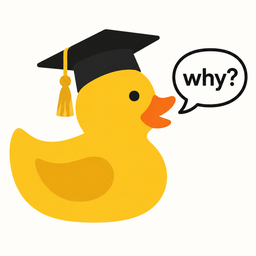
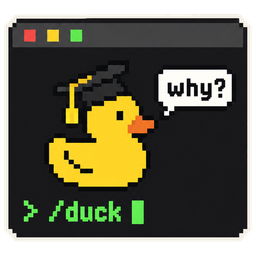
README after ponytail: GIF in the dsh web style, cropped tab screenshot
The README now follows the Doctor Duck README: tagline, a GIF drawn in
the DeepSeek Harness web chat style (an illustration, not a recording;
no DeepSeek logo, wordmark or model name), bold lines, then the 鸭子 tab.
The GIF follows the Doctor Duck copy pinned in duck/ (345d618): a flat
/duck menu with the pick-a-command line after it, then one message
/duck 可不可以告诉我这个内容里我要学什么？ routed to /duck-learn. Part
four says there is no decision log, as the duck was not on.

The tab screenshot is the real one, cropped to the tab pane, so the text
is readable and the DeepSeek Harness logo is gone. LICENSE and the README
say the interface in screenshots is not covered by our license; LICENSE
now also lists client/ (MIT) and mentor/ (CC BY-NC-SA 4.0).

Fact-check fixes: the sources line follows the pinned core.md (there is
no essay index at 345d618) and is worded as a rule; a 装好以后 section
with the restart note for 方式三 and Desktop and what /duck on does; the
web-search FAQ; the English link is labelled as an overview; DETAIL.md
says "not turned on" instead of "off"; verification lines updated for
the 10-26 rerun and the rename; the model-session red team caveat is back.

icon.png now uses the t05-bubble duck the user picked on 10-26.

Before going public: the name (the user's choice) starts with the
DeepSeek mark, and BRAND_GUIDELINES.zh.md:8-10 suggests DSH; the GIF
uses the dsh brand blue. duck/ is pinned at 345d618; after the stacked
[…]

diff --git a/README.md b/README.md
@@ -1,22 +1,80 @@
-# deepseek-supervisor
+<p align="center">
+  <picture>
+    <source media="(prefers-color-scheme: dark)" srcset="assets/logo-dark.png">
+    <img src="assets/logo.png" width="220" alt="戴博士帽的像素小黄鸭，在终端里问 why?">
+  </picture>
+</p>
 
-> Trust me, I'm a Ducktor.
+<h1 align="center">deepseek-supervisor</h1>
 
-Doctor Duck（讲为什么的科研导师）的 DeepSeek Harness 原生插件。装上以后，在 DeepSeek Harness 的 Web、Desktop 和命令行里都能敲 `/duck-review` 这类命令；在开启了鸭子的项目里，每个会话都带着 Doctor Duck 的常驻规则。规则、命令和卡片是 Doctor Duck 的原文，和 Claude Code、Codex 用户拿到的是同一份。
+<p align="center">
+  <em>AI 做研究。鸭子讲为什么。道理你带走。</em>
+</p>
 
-在 Web 界面里，右侧边栏多一个「鸭子」页签（Desktop 用的是同一套网页界面，但这台机器没有 Desktop，没测过）：这次 AI 替你定了什么、你能带走的原则、该你亲手核对的地方、这个方向的背景、导师会提醒你的经验卡片，都摆在对话旁边。用 agent 做科研时一闪而过的判断，学生在这里能看见、能学到。插件在 Doctor Duck 的 23 张经验卡片之外另带 11 张（读论文、进新方向、实验习惯、和导师开会、用 AI 做研究和审稿的规矩），每张都写明出处，交付前另开两个模型会话当红队，逐条对过原文。
+<p align="center">
+  <sub>Trust me, I'm a Ducktor.</sub>
+</p>
 
-![「鸭子」页签](docs/images/sidebar.png)
+<p align="center">
+  <img src="https://img.shields.io/badge/works%20with-DeepSeek%20Harness-111111?style=flat-square" alt="Works with DeepSeek Harness">
+  <img src="https://img.shields.io/badge/license-MIT%20%C2%B7%20CC%20BY--NC--SA%204.0%20%C2%B7%20CC%20BY%204.0-111111?style=flat-square" alt="License: MIT, CC BY-NC-SA 4.0 and CC BY 4.0">
+</p>
 
-Doctor Duck 是什么、怎么用，见 [docs/DETAIL.zh.md](docs/DETAIL.zh.md)。这一页也是插件装好后在「插件」页里看到的详情（dsh 支持详情文档的版本才显示）。
+<p align="center">
+  <img src="assets/demo.zh-CN.gif" width="880" alt="示意动图，不是录屏。两个 DeepSeek Harness 对话窗口做同一件事：「实验都做完了，结果在 results/ 里。帮我写成一篇 NeurIPS 论文。」左边没有鸭子：AI 读完结果，写完 paper/main.tex，说都做完了，又说为了不夸大，消融只跑了一次，0.1 到 0.3 的差没下结论。你拿到一篇论文。右边装了这个插件，鸭子没在这个项目打开：同样写完以后，发 /duck 看到菜单，再发「/duck 可不可以告诉我这个内容里我要学什么？」鸭子说按复盘处理（/duck-learn），先问哪一步是你自己定的，你跳过。然后它讲本来想干什么、实际怎样、顶级导师会盯哪里。这篇是怎么写的：三条贡献是 AI 挑的，动笔之前，先把贡献写成一到三条（卡 W01）。怎么写好：AI 写明 0.1 到 0.3 的差不下结论，用词的强度，跟证据的强度对齐（卡 W11）。怎么让审稿人信服：英德上 base 只比 MoE 高 1.3，差距要大过种子间的波动（卡 E05）。鸭子没开，没有决策记录；看论文，贡献、措辞、跟谁比，都是 AI 定的。三条原则记进 .duck/notebook.md，右侧「鸭子」页签能看到。">
+</p>
 
-这是社区做的插件，不是 DeepSeek 官方出品，和 DeepSeek 公司没有关系。2026-10-26 以前它叫 deepseek-ducktor，`evals/runs/` 和 `docs/验证记录.md` 里那天以前的记录保留了旧名字。
+<p align="center">
+  <strong><a href="https://github.com/JoeyWu-tech/Doctor-Duck">Doctor Duck</a> 的 DeepSeek Harness 原生插件。</strong><br>
+  <strong>贡献怎么定、话说多满、跟谁比，AI 替你定了。鸭子把这些判断拆开，一条一条讲给你。</strong><br>
+  <strong>Web 界面里，鸭子讲到的原则和 AI 替你定的事，摆在对话旁边的「鸭子」页签里。</strong><br>
+  <sub>社区做的插件，不是 DeepSeek 官方出品，和 DeepSeek 公司没有关系。</sub>
+</p>
 
-## 要求
+<p align="center">
+  <sub>简体中文 &middot; <a href="docs/DETAIL.md">English overview</a></sub>
+</p>
 
-DeepSeek Harness 0.2.1-rc.2 及以上、0.3 以下（`package.json` 的 `engines.dsh`，dsh 安装时会检查）。
+---
+
+你认识它：程序员桌上那只黄色的橡皮鸭。程序出了 bug，你把代码一行一行讲给它听，讲着讲着，自己就找到了 bug。
+
+现在 AI 替你做研究，轮不到你讲了。Doctor Duck 反过来：鸭子把 AI 做过的判断讲给你听。这个插件把 [Doctor Duck](https://github.com/JoeyWu-tech/Doctor-Duck) 原样装进 DeepSeek Harness：Web 和命令行里都能敲 `/duck-review` 这类命令。规则、命令和卡片是 Doctor Duck 的原文，和 Claude Code、Codex 用户拿到的是同一份，固定在 Doctor Duck 的一个提交上（`duck.lock.json` 写着是哪个）。
+
+## 之前 / 之后
+
+你把实验结果交给 AI，让它写成论文。没有鸭子，AI 一口气写完。贡献怎么定、话说多满、拿什么比，这些判断都是 AI 做的。它也许在最后提几句，但不拆成道理，不给出处，也不记下来。
+
+装了插件，AI 照样写完。你发 `/duck`，后面直接接问题，比如 `/duck 可不可以告诉我这个内容里我要学什么？`。鸭子先说按哪条命令处理，再照那条命令讲；上面动图里，它挑的是复盘（`/duck-learn`）。讲到的原则记进 `.duck/notebook.md`，也出现在「鸭子」页签里。
+
+## 「鸭子」页签
+
+<p align="center">
+  <img src="docs/images/sidebar.png" width="720" alt="真实截图：DeepSeek Harness Web 界面右侧的「鸭子」页签。截图来自另一个项目（一个块稀疏注意力的 idea），不是动图里那篇论文。页签开着，能看到四块：这次 AI 替你定的，两条，模型把谁定的写成了「我定」，页签照原样标「没写清谁定的：我定」；可以带走的原则，一条，出处写着 five-dimensions 第 10 节和卡 E05；该你亲手核对的；领域背景，列着代表作和链接。导师会提醒你的在更下面。">
+</p>
+
+用 agent 做科研时，AI 一路替你做了很多判断，一闪就过去了。Web 界面右侧边栏的「鸭子」页签把它们摆在对话旁边。打开右侧边栏（右上角的按钮），在「开始」里选「鸭子」。页签读的是项目 `.duck/` 下的文件：
+
+| 页签里的一块 | 来自 |
+|---|---|
+| 这次 AI 替你定的 | `decisions.md`；标着「待你确认」的排最前，「AI 定」和「你定」分开标；写成别的（比如「我定」），照原样标「没写清谁定的」 |
+| 可以带走的原则 | `notebook.md`；每条带阶段、出处和「这次」 |
+| 该你亲手核对的 | `reports/` 里最近一份有核对段落的报告，可以点开整份 |
+| 领域背景 | `background.md`；第一次用 `/duck-survey`、`/duck-idea` 摸一个方向时写 |
+| 导师会提醒你的 | 最近几步点到的卡片（Doctor Duck 的 `cards/` 和本插件的 `mentor/cards/`） |
+| 报告 | `reports/` 里的报告，可以点开 |
+
+页签开着时每 4 秒看一次文件有没有变，变了就重画。它只读本地文件，不发模型请求。项目里没开鸭子时，页签告诉你怎么开。命令行（TUI、headless）里没有这个页签，`.duck/` 里的文件照样写。Desktop 用的是同一套网页界面，我们没在 Desktop 上测过。
+
+## 道理从哪来
+
+规则要求鸭子：讲道理时，名家和出处只从经验卡和科研手册（`handbook/`）的具体章节里取；找不到出处，就直说这是它自己的判断。
+
+经验卡有两组。Doctor Duck 带 23 张。这个插件另带 11 张（`mentor/cards/`），讲读论文、进新方向、实验习惯、和导师开会、用 AI 做研究和审稿的规矩。每张写明出处，附原文链接。写卡时对过原文，发布前又让两个独立的模型会话当红队逐条复核过（不是人工审）。
 
 ## 安装
+
+需要 DeepSeek Harness 0.2.1-rc.2 及以上、0.3 以下（`package.json` 的 `engines.dsh`，dsh 安装时会检查）。
 
 三种方式任选一种。项目里的 `.duck/` 是学生自己的记录，装、卸插件都不会动它。
 
@@ -55,6 +113,20 @@ Desktop 用户不要用这种方式：这一行对 Desktop 也生效，会盖过
 
 这一行和方式一、二装上的那一行 id 相同，会盖过它们，不会注册两遍。所以要改设置，也写在这一行里（见下一节）。
 
+### 装好以后
+
+开一个新会话（方式三要先重启 dsh，Desktop 要重新打开），在输入框里敲 `/`，能看到全部 14 条命令。从 `/duck` 开始：鸭子 quack 一声，列出菜单。
+
+刚装好时，鸭子在每个项目里都没开启，只在你敲 `/duck-*` 命令时说话。在一个项目里敲 `/duck on`，鸭子就在这个项目里一直跟着：
+
+- AI 做完一步实质性的工作，比如定了方法、改了实验、写完一段，鸭子在回复末尾讲一句为什么。
+- 会改变做法的决定，AI 动手之前先问你，一次最多问三件。
+- 有取舍时，鸭子记一行决策，写明是你定的还是 AI 定的。
+
+`/duck quiet` 照样先问、照样记，只是不在对话里讲。`/duck off` 关掉。
+
+全部命令和开关的说明见 [docs/DETAIL.zh.md](docs/DETAIL.zh.md)。
+
 ## 设置
 
 三项都可以不填。用方式一、二装的，在插件页插件的「配置」里改。用了方式三那一行的，改那一行的 `config:`；它优先级更高，插件页里改的会被它盖过（插件页会提示「被更高优先级的配置覆盖」）：
@@ -85,20 +157,6 @@ Desktop 用户不要用这种方式：这一行对 Desktop 也生效，会盖过
 | 读插件里的文件 | Claude Code 里插件给 Read、Glob、Grep 开了绿灯 | dsh 的每种沙箱模式都不拦读文件，不用学生批准；插件目录只读 |
 | 学生自己加的命令 | 放项目的 `.claude/skills/duck-xxx/` 或 `.agents/skills/duck-xxx/` | dsh 只读 `.agents/skills/`（和 `.dsh/skills/`），不读 `.claude/skills/`。名字别和插件的 14 条重复：dsh 里插件自带的技能优先级最低，同名的会盖过插件的命令 |
 | 项目目录 | 开场 hook 收到的目录 | 会话创建时的目录。开场说明里写明它和 `.duck/` 的绝对路径，让模型在会话里换了工作目录也读写原来的 `.duck/`（模型照不照做，没用真模型验证） |
-
-## 「鸭子」页签
-
-打开右侧边栏（右上角的按钮），在「开始」里选「鸭子」。页签读的是项目 `.duck/` 下的文件：
-
-| 页签里的一块 | 来自 |
-|---|---|
-| 这次 AI 替你定的 | `decisions.md`；标着「待你确认」的排最前，「AI 定」和「你定」分开标 |
-| 可以带走的原则 | `notebook.md`；每条带阶段、出处和「这次」 |
-| 该你亲手核对的 | `reports/` 里最近一份有核对段落的报告，可以点开整份 |
-| 领域背景 | `background.md`；第一次用 `/duck-survey`、`/duck-idea` 摸一个方向时写 |
-| 导师会提醒你的 | 最近几步点到的卡片（Doctor Duck 的 `cards/` 和本插件的 `mentor/cards/`） |
-
-页签开着时每 4 秒看一次文件有没有变，变了就重画；只读本地文件，不发模型请求。项目里没开鸭子时，页签告诉你怎么开。命令行（TUI、headless）里没有这个页签，`.duck/` 里的文件照样写。
 
 ## 怎么做的
 
@@ -132,14 +190,30 @@ Desktop 用户不要用这种方式：这一行对 Desktop 也生效，会盖过
 细节在 [docs/验证记录.md](docs/验证记录.md)。简单说：
 
 - 验证了：dsh 0.2.1-rc.2 和 rc.3 上三种安装方式都能装上、卸掉（卸掉后不再加载）；命令在 Web 和 headless 里都列出来、指向真实文件；开场说明和 Doctor Duck 开场 hook 的输出逐字相同，位置在学生消息之后、命令之前；续接会话不重复给，开关变了给替换的一份；照 dsh 建子代理会话的写法、用被测 dsh 的代码建出会话，插件认得出子代理（dsh 真建子代理时这么写，是读代码确认的）。
-- 真模型：在 dsh rc.2 上用 DeepSeek（默认的 `deepseek-flash`）跑完 Doctor Duck 的四套学生流程，36 个阶段、133 项检查过了 132 项，必须项全过，没过的是一条 should（参考文献没给链接）。运行里模型起的 3 个真子代理都没拿到开场说明；调低压缩阈值后，对话压缩掉开场说明，插件在下一步补发了。
-- 没验证：rc.3 和 `deepseek-v4-pro` 上的真模型流程，真模型结果的波动（每套只跑了一次）；Desktop（只有 macOS、Windows 版，这台机器是 Linux）；插件页的点击流程本身（测的是它调用的后端接口），插件的「配置」页也没看过；模型换了工作目录后照不照附注里的路径读写 `.duck/`（流程里模型没换过目录）。
+- 真模型：在 dsh rc.2 上用 DeepSeek（默认的 `deepseek-flash`）跑完 Doctor Duck 的四套学生流程，必须项全过；建议项里有一条没过：参考文献没给链接（10-26 只重跑了 survey 这一段，这一条过了）。运行里模型起的真子代理都没拿到开场说明；调低压缩阈值后，对话压缩掉开场说明，插件在下一步补发了。
+- 没验证：rc.3 和 `deepseek-v4-pro` 上的真模型流程，真模型结果的波动（每套只跑了一次）；改名以后的真模型流程（改名只动了名字）；Desktop（只有 macOS、Windows 版，我们只在 Linux 上测过）；插件页的点击流程本身（测的是它调用的后端接口），插件的「配置」页也没看过；模型换了工作目录后照不照附注里的路径读写 `.duck/`（流程里模型没换过目录）。
+
+## 常见问题
+
+**是 DeepSeek 官方的插件吗？**
+不是。这是社区做的插件，和 DeepSeek 公司没有关系。
+
+**和 Doctor Duck 是什么关系？**
+`duck/` 是 Doctor Duck 的原样拷贝，`duck.lock.json` 记着它来自哪个提交。这个插件加的是 DeepSeek Harness 的接入、「鸭子」页签和另带的 11 张卡。
+
+**会把我的东西发出去吗？**
+插件自己不发网络请求，页签只读项目里的本地文件。AI 读到的内容照常发给模型。`/duck-survey`、`/duck-idea` 这类命令会让 AI 上网查文献；鸭子开着或你敲命令时，AI 给论文、数据集附的链接也要上网查。
+
+**以前叫什么？**
+2026-10-26 以前它叫 deepseek-ducktor。`evals/runs/` 和 `docs/验证记录.md` 里那天以前的记录保留了旧名字。
 
 ## 许可
 
 - 插件代码（`index.js`、`lib/`、`client/`、`scripts/`、`tests/`）：MIT。
-- 文档和展示文字（`README.md`、`docs/`、`locale/`）和另带的经验卡片（`mentor/`）：CC BY-NC-SA 4.0，和 Doctor Duck 的文字一样（里面有改写自 Doctor Duck 的段落）。
+- 文档、展示文字和图（`README.md`、`docs/`、`locale/`、`assets/`、`icon.png`）和另带的经验卡片（`mentor/`）：CC BY-NC-SA 4.0，和 Doctor Duck 的文字一样（里面有改写自 Doctor Duck 的段落）。
 - `duck/`：Doctor Duck 原样拷贝，按它自己的 `duck/LICENSE` 分目录许可：文字（skills/、rules/、cards/、handbook/）是 CC BY-NC-SA 4.0，不可商用；`library/` 里的原技能各自保留原来的许可（CC BY 4.0 或 CC BY-NC-SA 4.0）；代码是 MIT。
 - Doctor Duck 改编自 [Supervisor-Skills](https://github.com/HKUSTDial/Supervisor-Skills)（骆昱宇及贡献者，CC BY-NC-SA 4.0）。
+- 动图左边滚过的 LaTeX 行，取自一次 Claude Code 运行写的论文；论文数字取自《Attention Is All You Need》（[arXiv 1706.03762](https://arxiv.org/abs/1706.03762)）的表 2 和表 3。
+- 截图里的 DeepSeek Harness 界面归其所有者，不在本许可内。
 
 详见 [LICENSE](LICENSE)。

diff --git a/docs/DETAIL.zh.md b/docs/DETAIL.zh.md
@@ -29,7 +29,7 @@ deepseek-supervisor 是社区做的插件，不是 DeepSeek 官方出品，和 D
 在 Web 界面里打开右侧边栏，选「鸭子」（Desktop 用同一套网页界面，没测过）。它把 `.duck/` 里的东西摆在对话旁边：
 
 - 这次 AI 替你定的：哪些板是 AI 拍的、哪些是你定的；要你确认的排在最前面。
-- 可以带走的原则：每一步留下的一条做法，写着出处和「这次」发生了什么。
+- 可以带走的原则：笔记本里记下的原则，写着出处和「这次」发生了什么。
 - 该你亲手核对的：最近一份报告里要你自己看的地方，点一下打开整份报告。
 - 领域背景：第一次用 `/duck-survey` 或 `/duck-idea` 摸一个方向时写下的代表作、数据集和还没定论的问题，都带链接。
 - 导师会提醒你的：最近几步点到的经验卡片，写着道理、怎么用和出处。

diff --git a/docs/DETAIL.md b/docs/DETAIL.md
@@ -13,7 +13,7 @@ deepseek-supervisor is a community plugin. It is not made by DeepSeek and has no
 ## Use
 
 - Type `/` in the composer to see every `/duck-*` command. Start with `/duck`.
-- After installing, the duck is off in every project and speaks only when you run a `/duck-*` command.
+- After installing, the duck is not turned on in any project. It speaks only when you run a `/duck-*` command.
 - `/duck on` turns it on in this project: from then on it explains and logs decisions during ordinary work too.
 - `/duck quiet` keeps the explanations out of the conversation but still writes them to the notebook.
 - `/duck off` turns it off.
